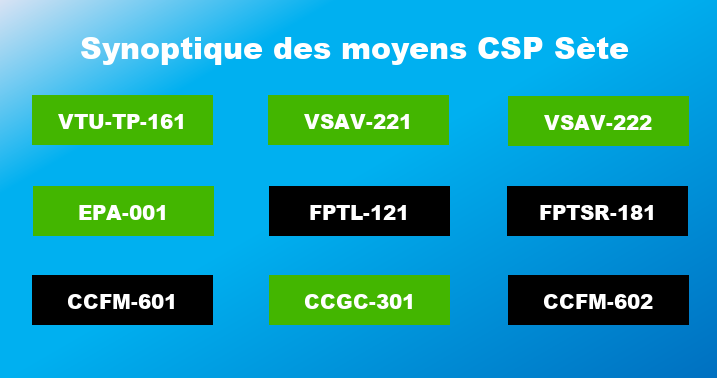
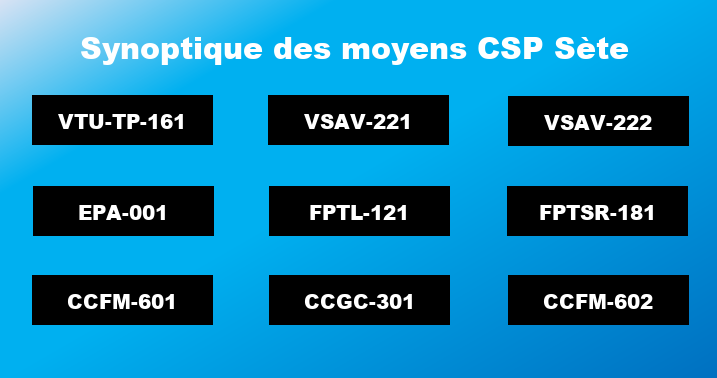
fix vehicule's statuts determination

diff --git a/Syno/Syno.py b/Syno/Syno.py
@@ -41,15 +41,18 @@ class Syno():
             syno_vhl_inverted = dict(syno_vhl_inverted)
 
             result = 0
+            print(vhl.vehicule)
+            print(syno_vhl)
+            print(vhl_required)
             for i in syno_vhl_inverted.keys():
                 result = syno_vhl[i] - (vhl_required[i] - result)
+                
+                print(result)
                 if result < 0:
-                    vhl.statut = 0
                     break
-                else:
-                    continue
-            vhl.statut = 1
-
+            if result >= 0 : vhl.statut = 1
+            else:
+                vhl.statut = 0
         else:
             vhl.statut = 0
         
